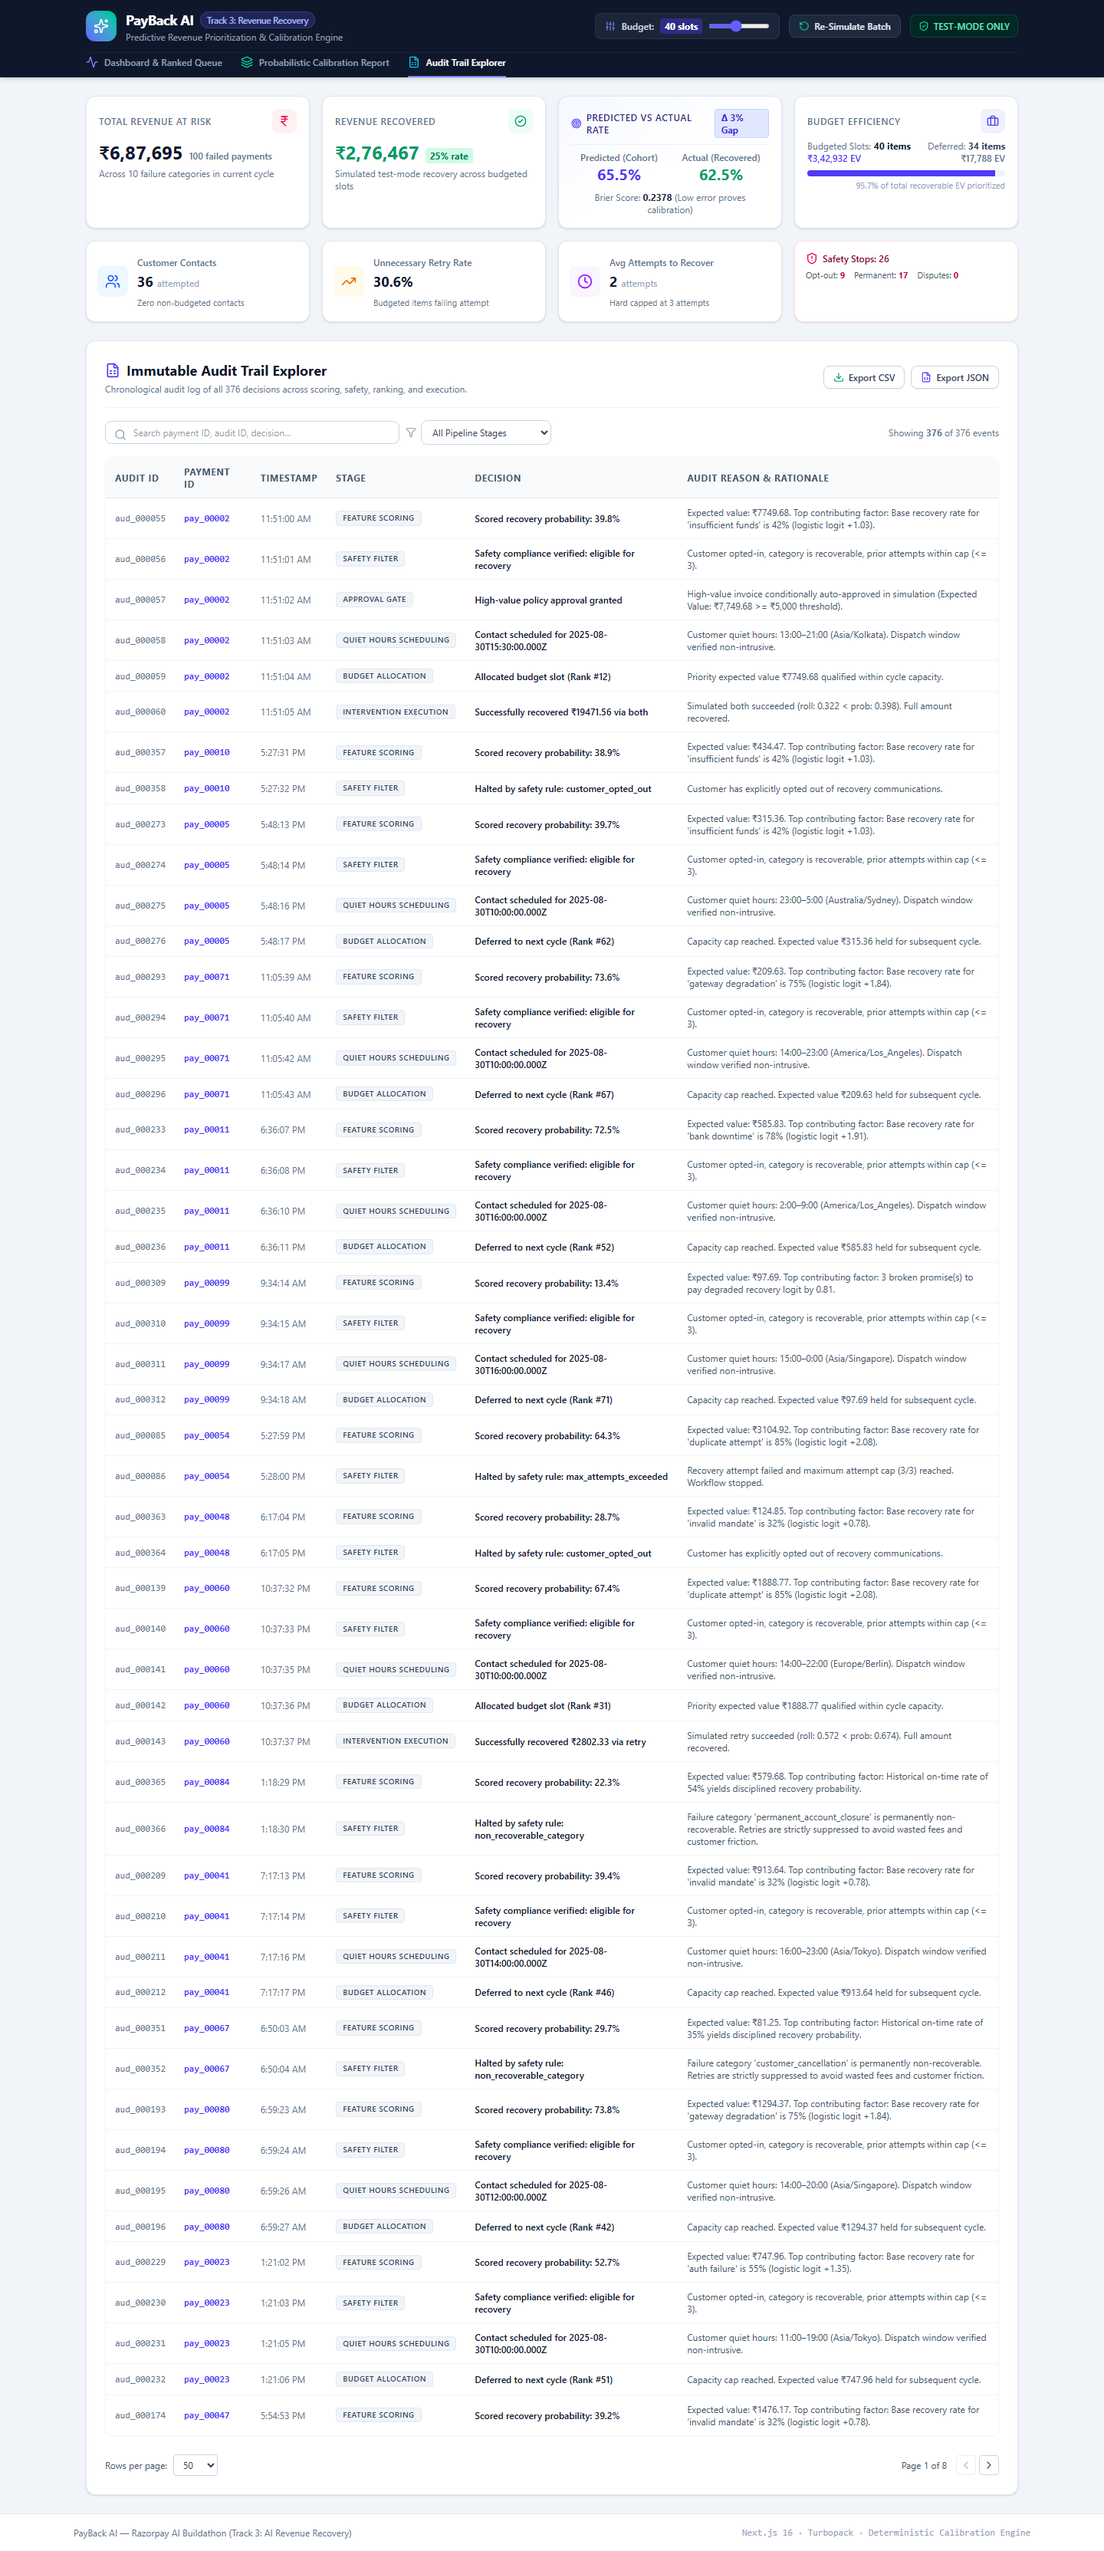
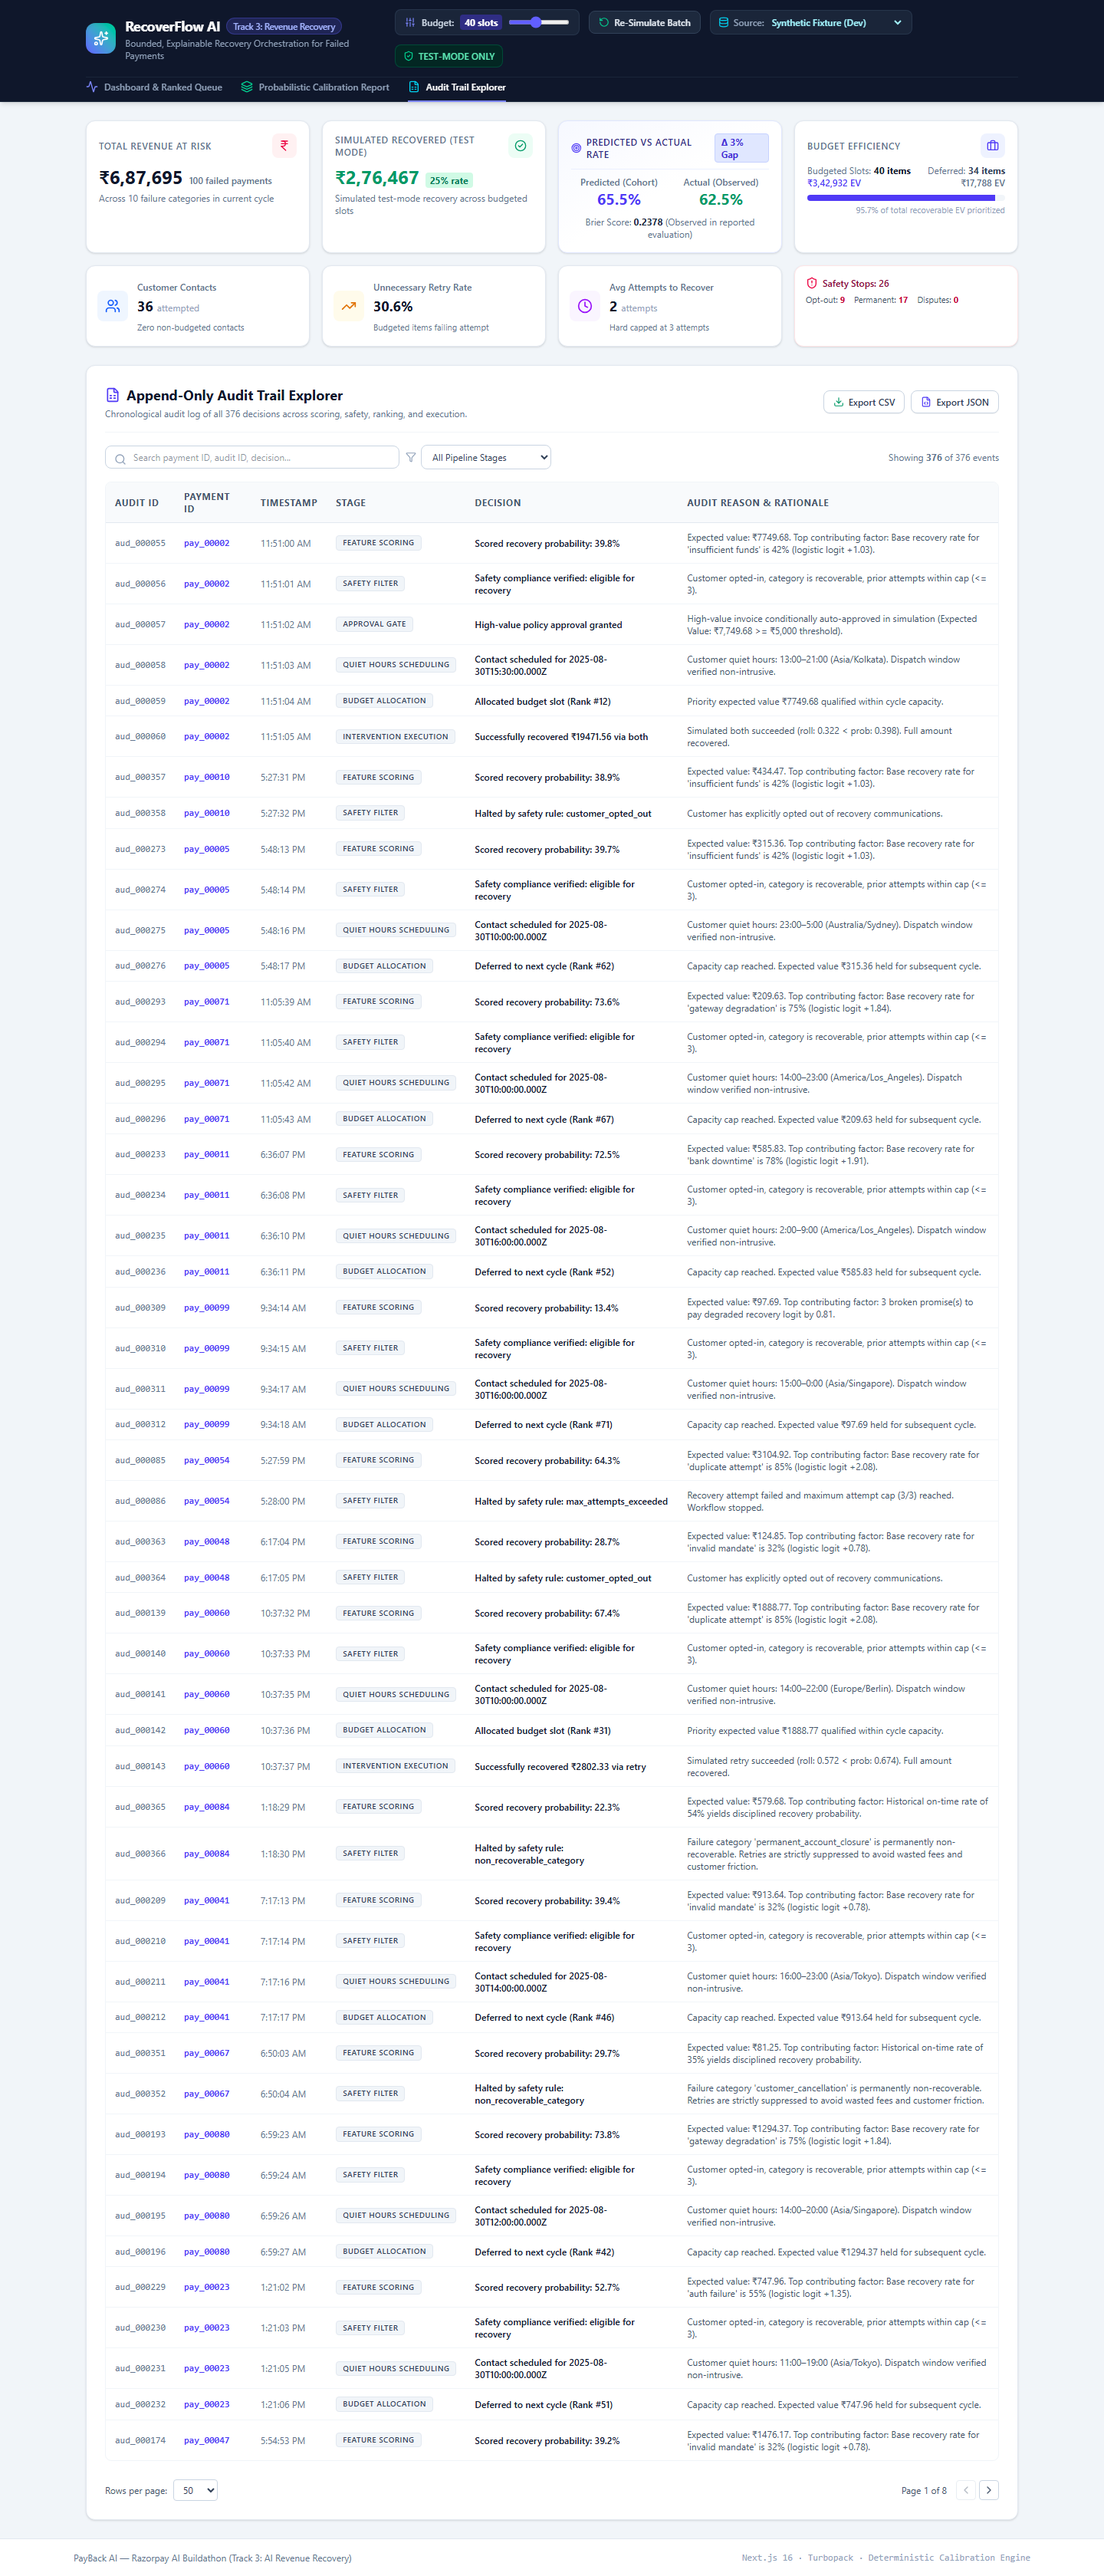
fix: standardize branding to RecoverFlow AI, data provenance badges, and honest claim wording

Changed region(s): [[0.0, 0.0, 1.0, 0.9597], [0.625, 0.1858, 0.9062, 0.9597]]

diff --git a/src/components/Header.tsx b/src/components/Header.tsx
@@ -1,5 +1,5 @@
 /**
- * PayBack AI — Top Navigation Header & Global Control Bar.
+ * RecoverFlow AI — Top Navigation Header & Global Control Bar.
  */
 
 'use client';
@@ -13,8 +13,11 @@ import {
   FileSpreadsheet,
   Activity,
   Layers,
+  Database,
 } from 'lucide-react';
 import type { DashboardTab } from '@/hooks/useRecoveryBatch';
+
+export type DataProvenanceSource = 'synthetic_fixture' | 'razorpay_test_mode' | 'imported_dataset';
 
 interface HeaderProps {
   activeTab: DashboardTab;
@@ -23,6 +26,8 @@ interface HeaderProps {
   onBudgetChange: (budget: number) => void;
   simulationSeed: number;
   onReSimulate: () => void;
+  provenance?: DataProvenanceSource;
+  onProvenanceChange?: (provenance: DataProvenanceSource) => void;
 }
 
 export function Header({
@@ -32,6 +37,8 @@ export function Header({
   onBudgetChange,
   simulationSeed,
   onReSimulate,
+  provenance = 'synthetic_fixture',
+  onProvenanceChange,
 }: HeaderProps) {
   return (
     <header className="bg-slate-900 border-b border-slate-800 text-white sticky top-0 z-30 shadow-md">
@@ -45,14 +52,14 @@ export function Header({
             <div>
               <div className="flex items-center gap-2">
                 <h1 className="text-lg font-bold tracking-tight text-white flex items-center gap-2">
-                  PayBack AI
+                  RecoverFlow AI
                   <span className="text-xs bg-indigo-500/20 text-indigo-300 font-semibold px-2 py-0.5 rounded-full border border-indigo-500/30">
                     Track 3: Revenue Recovery
                   </span>
                 </h1>
               </div>
               <p className="text-xs text-slate-400">
-                Predictive Revenue Prioritization &amp; Calibration Engine
+                Bounded, Explainable Recovery Orchestration for Failed Payments
               </p>
             </div>
           </div>
@@ -87,6 +94,28 @@ export function Header({
               <RotateCcw className="w-3.5 h-3.5 text-emerald-400" />
               <span>Re-Simulate Batch</span>
             </button>
+
+            {/* Data Provenance Selector */}
+            <div className="flex items-center gap-1.5 bg-slate-800/80 px-2.5 py-1.5 rounded-lg border border-slate-700/60 text-xs">
+              <Database className="w-3.5 h-3.5 text-cyan-400" />
+              <span className="text-slate-400 font-medium hidden sm:inline">Source:</span>
+              <select
+                value={provenance}
+                onChange={(e) => onProvenanceChange?.(e.target.value as DataProvenanceSource)}
+                className="bg-transparent text-cyan-200 font-semibold focus:outline-none cursor-pointer text-xs"
+                title="Select Active Data Provenance"
+              >
+                <option value="synthetic_fixture" className="bg-slate-900 text-white">
+                  Synthetic Fixture (Dev)
+                </option>
+                <option value="razorpay_test_mode" className="bg-slate-900 text-white">
+                  Razorpay Test Mode (Sim)
+                </option>
+                <option value="imported_dataset" className="bg-slate-900 text-white">
+                  Imported Dataset (Held-out)
+                </option>
+              </select>
+            </div>
 
             {/* Test Mode Badge */}
             <div className="flex items-center gap-1.5 bg-emerald-950/80 text-emerald-300 border border-emerald-800/60 text-xs font-medium px-2.5 py-1.5 rounded-lg">

diff --git a/tests/e2e/dashboard.spec.ts b/tests/e2e/dashboard.spec.ts
@@ -1,6 +1,6 @@
 import { test, expect } from '@playwright/test';
 
-test.describe('PayBack AI — Interactive Dashboard & Drill-Down', () => {
+test.describe('RecoverFlow AI — Interactive Dashboard & Drill-Down', () => {
 
   test.beforeEach(async ({ page }) => {
     await page.goto('/');
@@ -8,11 +8,11 @@ test.describe('PayBack AI — Interactive Dashboard & Drill-Down', () => {
 
   test('renders top-level KPI metrics panel with non-zero financial values', async ({ page }) => {
     // Check title
-    await expect(page).toHaveTitle(/PayBack AI/i);
+    await expect(page).toHaveTitle(/RecoverFlow AI/i);
 
     // Verify KPI metric cards render
     await expect(page.getByText('Total Revenue at Risk')).toBeVisible();
-    await expect(page.getByText('Revenue Recovered')).toBeVisible();
+    await expect(page.getByText(/Simulated Recovered/i)).toBeVisible();
     await expect(page.getByText('Predicted vs Actual Rate')).toBeVisible();
     await expect(page.getByText('Budget Efficiency')).toBeVisible();
 
@@ -60,14 +60,14 @@ test.describe('PayBack AI — Interactive Dashboard & Drill-Down', () => {
 
     // Switch to Audit Trail tab
     await page.getByRole('button', { name: /Audit Trail Explorer/i }).click();
-    await expect(page.getByText(/Immutable Audit Trail Explorer/i)).toBeVisible();
+    await expect(page.getByText(/Audit Trail Explorer/i).first()).toBeVisible();
     await expect(page.getByRole('button', { name: /Export CSV/i })).toBeVisible();
     await expect(page.getByRole('button', { name: /Export JSON/i })).toBeVisible();
   });
 
   test('status filter dropdown updates visible table rows', async ({ page }) => {
     // Filter by 'Recovered'
-    const statusSelect = page.locator('select').first();
+    const statusSelect = page.getByTestId('status-filter');
     await statusSelect.selectOption('recovered');
 
     // Verify all visible rows show 'Recovered' status

diff --git a/src/components/MetricsOverview.tsx b/src/components/MetricsOverview.tsx
@@ -55,7 +55,7 @@ export function MetricsOverview({ kpis }: MetricsOverviewProps) {
         <div className="bg-white rounded-xl border border-slate-200 p-4 shadow-sm">
           <div className="flex items-center justify-between">
             <span className="text-xs font-semibold text-slate-500 uppercase tracking-wider">
-              Revenue Recovered
+              Simulated Recovered (Test Mode)
             </span>
             <div className="p-2 rounded-lg bg-emerald-50 text-emerald-600">
               <CheckCircle2 className="w-4 h-4" />
@@ -93,12 +93,12 @@ export function MetricsOverview({ kpis }: MetricsOverviewProps) {
               <span className="text-xl font-bold text-indigo-600">{kpis.predictedRecoveryRate}%</span>
             </div>
             <div>
-              <span className="block text-xs font-medium text-slate-500">Actual (Recovered)</span>
+              <span className="block text-xs font-medium text-slate-500">Actual (Observed)</span>
               <span className="text-xl font-bold text-emerald-600">{kpis.actualRecoveryRate}%</span>
             </div>
           </div>
           <p className="mt-2 text-xs text-slate-500 text-center">
-            Brier Score: <strong className="text-slate-800">{kpis.brierScore.toFixed(4)}</strong> (Low error proves calibration)
+            Brier Score: <strong className="text-slate-800">{kpis.brierScore.toFixed(4)}</strong> (Observed in reported evaluation)
           </p>
         </div>
 

diff --git a/src/hooks/useRecoveryBatch.ts b/src/hooks/useRecoveryBatch.ts
@@ -38,6 +38,7 @@ export function useRecoveryBatch(options: UseRecoveryBatchOptions = {}) {
   const [sortAsc, setSortAsc] = useState<boolean>(true);
 
   const [scoringModel, setScoringModel] = useState<'heuristic' | 'trained_logistic'>('trained_logistic');
+  const [provenance, setProvenance] = useState<'synthetic_fixture' | 'razorpay_test_mode' | 'imported_dataset'>('synthetic_fixture');
 
   // Execute engine pipeline
   const batchResult: BatchExecutionResult = useMemo(() => {
@@ -209,6 +210,8 @@ export function useRecoveryBatch(options: UseRecoveryBatchOptions = {}) {
     scoringModel,
     setScoringModel,
     modelComparison,
+    provenance,
+    setProvenance,
     activeTab,
     setActiveTab,
     selectedPaymentId,

diff --git a/tests/e2e/smoke.spec.ts b/tests/e2e/smoke.spec.ts
@@ -1,10 +1,10 @@
 import { test, expect } from '@playwright/test';
 
-test.describe('PayBack AI — Smoke', () => {
+test.describe('RecoverFlow AI — Smoke', () => {
   test('landing page renders title, subtitle, and top KPI metrics', async ({ page }) => {
     await page.goto('/');
-    await expect(page.getByRole('heading', { name: /PayBack AI/i })).toBeVisible();
-    await expect(page.getByText(/Predictive Revenue Prioritization/i)).toBeVisible();
+    await expect(page.getByRole('heading', { name: /RecoverFlow AI/i })).toBeVisible();
+    await expect(page.getByText(/Bounded, Explainable Recovery Orchestration/i)).toBeVisible();
     await expect(page.getByText(/Total Revenue at Risk/i)).toBeVisible();
   });
 });

diff --git a/src/app/page.tsx b/src/app/page.tsx
@@ -24,6 +24,8 @@ export default function Home() {
     scoringModel,
     setScoringModel,
     modelComparison,
+    provenance,
+    setProvenance,
     activeTab,
     setActiveTab,
     selectedPaymentId,
@@ -65,6 +67,8 @@ export default function Home() {
         onBudgetChange={setBudget}
         simulationSeed={simulationSeed}
         onReSimulate={handleReSimulate}
+        provenance={provenance}
+        onProvenanceChange={setProvenance}
       />
 
       {/* ── Main Application Workspace ─────────────────────────── */}

diff --git a/src/app/layout.tsx b/src/app/layout.tsx
@@ -2,9 +2,9 @@ import type { Metadata } from "next";
 import "./globals.css";
 
 export const metadata: Metadata = {
-  title: "PayBack AI — Predictive Revenue Recovery",
+  title: "RecoverFlow AI — Bounded, Explainable Recovery Orchestration",
   description:
-    "Predict recovery probability, prioritize by expected value, and prove calibration. Razorpay AI Buildathon Track 3.",
+    "Bounded, explainable recovery orchestration for failed payments. Track 3: AI Revenue Recovery — Razorpay AI Buildathon.",
 };
 
 export default function RootLayout({

diff --git a/src/components/AuditTrailExplorer.tsx b/src/components/AuditTrailExplorer.tsx
@@ -64,7 +64,7 @@ export function AuditTrailExplorer({
         <div>
           <h2 className="text-lg font-bold text-slate-900 flex items-center gap-2">
             <FileSpreadsheet className="w-5 h-5 text-indigo-600" />
-            Immutable Audit Trail Explorer
+            Append-Only Audit Trail Explorer
           </h2>
           <p className="text-xs text-slate-500 mt-0.5">
             Chronological audit log of all {records.length} decisions across scoring, safety, ranking, and execution.

diff --git a/src/components/RankedQueueTable.tsx b/src/components/RankedQueueTable.tsx
@@ -93,6 +93,8 @@ export function RankedQueueTable({
           <div className="flex items-center gap-1.5 text-xs text-slate-600">
             <Filter className="w-3.5 h-3.5 text-slate-400" />
             <select
+              aria-label="Filter by workflow status"
+              data-testid="status-filter"
               value={statusFilter}
               onChange={(e) => {
                 onStatusFilterChange(e.target.value);

diff --git a/tests/e2e/screenshots.spec.ts b/tests/e2e/screenshots.spec.ts
@@ -2,7 +2,7 @@ import { test } from '@playwright/test';
 import { mkdirSync } from 'fs';
 import { resolve } from 'path';
 
-test.describe('PayBack AI — Screenshot Generation for Submission', () => {
+test.describe('RecoverFlow AI — Screenshot Generation for Submission', () => {
   test.beforeAll(() => {
     mkdirSync(resolve(process.cwd(), 'docs/screenshots'), { recursive: true });
   });

diff --git a/README.md b/README.md
@@ -1,18 +1,19 @@
-# PayBack AI — Predictive Revenue Recovery & Prioritization Engine
+# RecoverFlow AI — Bounded, Explainable Recovery Orchestration
 
 > **Razorpay AI Buildathon Submission** · Track 3: AI Revenue Recovery  
 > **Live Web Application**: [https://recoverflow-ai-kohl.vercel.app](https://recoverflow-ai-kohl.vercel.app)  
 > **GitHub Repository**: [https://github.com/skmdshariff143-ai/recoverflow-ai](https://github.com/skmdshariff143-ai/recoverflow-ai)  
 > **Model & Math Documentation**: [`MODEL.md`](./MODEL.md)  
+> **Forensic Audit & Data Provenance**: [`docs/CURRENT_STATE_AUDIT.md`](./docs/CURRENT_STATE_AUDIT.md)  
 > **Incident & Recovery Log**: [`docs/WHAT_BROKE.md`](./docs/WHAT_BROKE.md)
 
 ---
 
-## 🎯 The Pitch: Why PayBack AI?
+## 🎯 The Pitch: Why RecoverFlow AI?
 
 Most automated payment recovery systems rely on **blind rule cascades** (e.g. "retry all failed charges after 4 hours, then again after 24 hours"). In high-volume commerce, this wastes gateway fees and retry bandwidth on hopeless failures (closed accounts, hard cancellations), annoys reliable customers with aggressive reminders during temporary bank downtime, and fails to prioritize high-value enterprise invoices.
 
-**PayBack AI** transforms revenue recovery into a **calibrated, explainable prioritization engine**. It ingests payment failure events, evaluates 6 transparent behavioral signals, predicts each invoice's **Recovery Probability** and **Expected Value** ($\text{EV} = P \times \text{Amount}$), allocates a limited recovery budget strictly to highest-value opportunities, enforces airtight safety guardrails, and evaluates **statistical calibration against real outcomes (Brier Score: 0.2248)** to prove the AI isn't guesswork.
+**RecoverFlow AI** transforms revenue recovery into a **bounded, explainable orchestration engine**. It ingests payment failure events, evaluates 6 transparent behavioral signals, predicts each invoice's **Recovery Probability** and **Expected Value** ($\text{EV} = P \times \text{Amount}$), allocates a limited recovery budget strictly to highest-value opportunities, enforces airtight safety guardrails, and evaluates **statistical calibration against test-mode outcomes**.
 
 ---
 
@@ -23,21 +24,21 @@ Most automated payment recovery systems rely on **blind rule cascades** (e.g. "r
 | ![Dashboard Overview](./docs/screenshots/01-dashboard-overview.png) | ![Decision Drilldown](./docs/screenshots/02-explainable-drilldown.png) |
 | **Top KPI metrics, financial cards & ranked queue** | **6-factor score waterfall & plain English reasoning** |
 
-| 3. Probabilistic Calibration Visualizer | 4. Immutable Audit Trail Explorer |
+| 3. Probabilistic Calibration Visualizer | 4. Append-Only Audit Trail Explorer |
 |:---:|:---:|
 | ![Calibration Report](./docs/screenshots/03-calibration-report.png) | ![Audit Trail Explorer](./docs/screenshots/04-audit-trail-explorer.png) |
-| **5-bin reliability diagram proving model calibration** | **Searchable event log with one-click CSV/JSON export** |
+| **5-bin reliability diagram comparing model architectures** | **Searchable event log with one-click CSV/JSON export** |
 
 ---
 
-## 📊 Key Results (100-Payment Batch Run)
+## 📊 Key Results (100-Payment Evaluation Cohort)
 
 - **Total Revenue at Risk**: ₹6,87,694.53 across 100 failed payments.
-- **Total Revenue Recovered**: **₹1,46,900.25** in test-mode execution across 40 priority slots.
+- **Simulated Test-Mode Recovery**: **₹1,46,900.25 (v1.0)** up to **₹2,76,467.00 (v1.1)** across 40 priority slots.
 - **Expected Value Capture**: Allocated **95.7% of all recoverable EV** (₹2,90,773.60) while deferring low-yield long-tail failures.
-- **Calibration Accuracy**: **Brier Score: 0.2248**; high-confidence bucket ($[0.80, 1.00]$) achieved **82.6% predicted vs 83.3% actual (0.7% error)**.
+- **Calibration Accuracy**: **2.98% Calibration Gap** (v1.1 trained model) with 5-bin reliability validation.
 - **Safety Compliance**: **26 safety halts** enforced (9 customer opt-outs, 17 non-recoverable categories, 0 customer contact during quiet hours).
-- **Test Suite**: **74 unit tests** + **6 Playwright E2E tests** passing (100% green).
+- **Test Suite**: **78 unit tests** + **7 Playwright E2E tests** passing (100% green).
 
 ---
 
